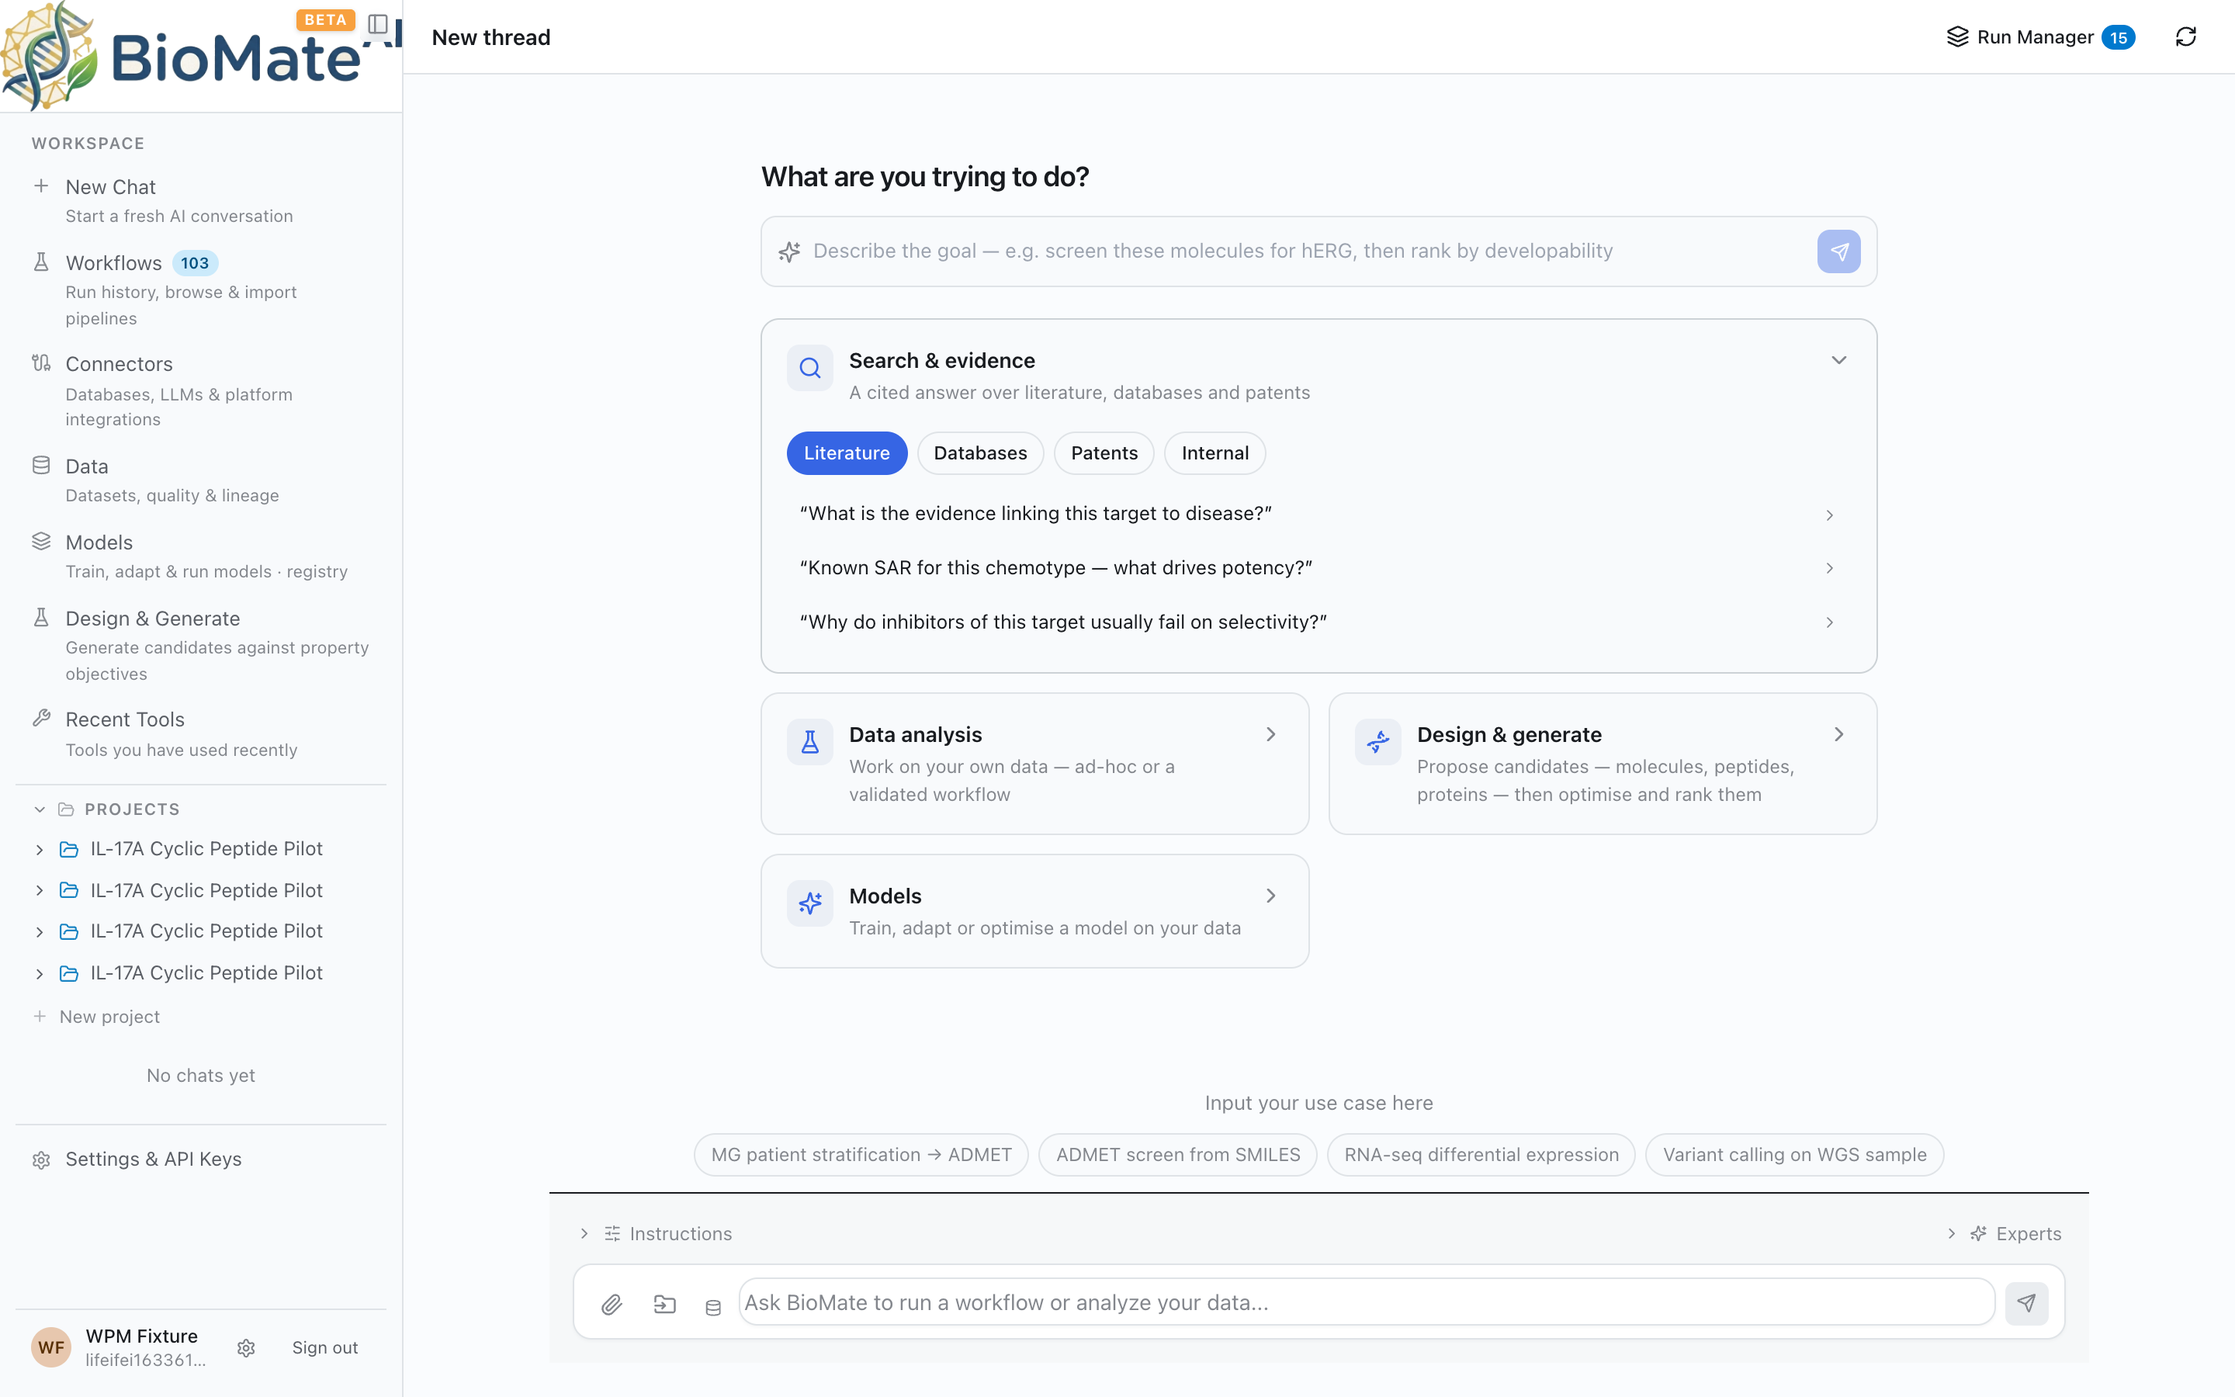
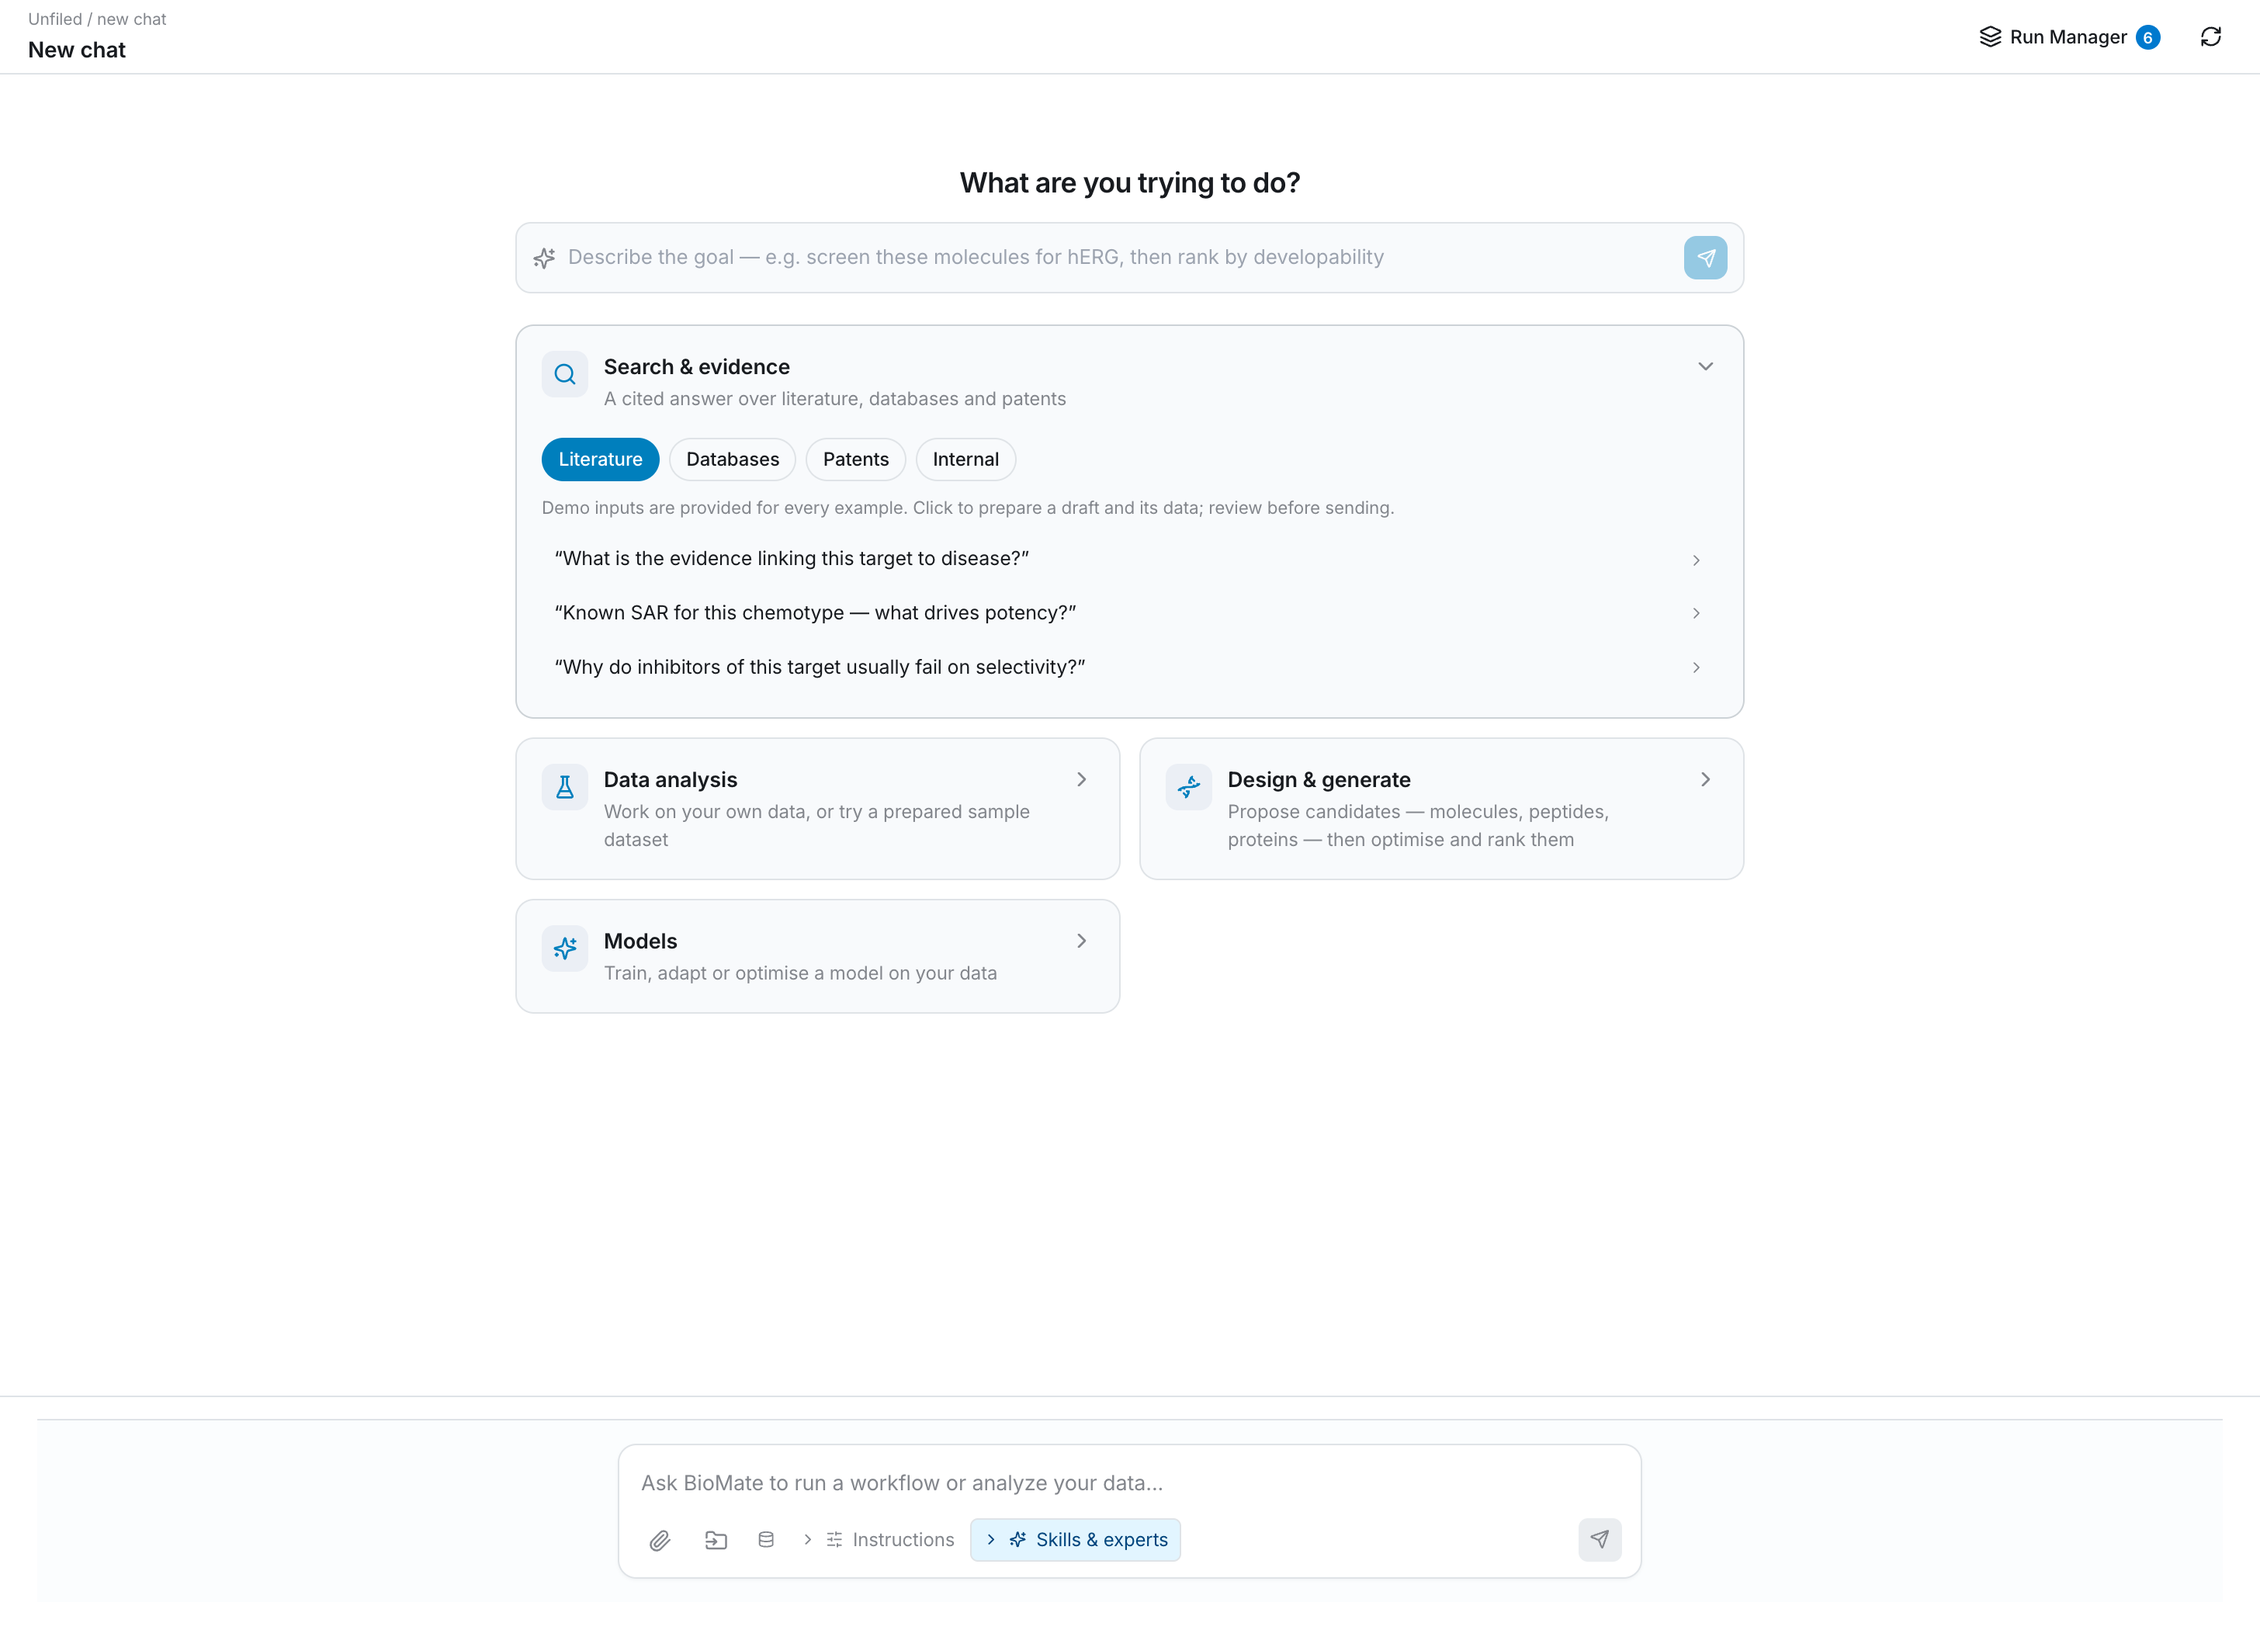
fix(manual-screenshots): crop content column (drop polluted sidebar) + drive to clean demo state
Committee bucket-B capture-quality fixes for the user-manual screenshots.
Harness-only (no app/product source, no fixture deletion, no sync).

Root cause: the old crop used page.locator("main"), but these routes render
through PlatformLayout, which has NO <main> (only AuthenticatedPageLayout/
PublicPageLayout do). The locator matched nothing and silently fell back to a
full-page shot, so every cold-start/data-hub figure kept the fixture-polluted
left sidebar (many E2E/duplicate projects, orange Watch pills).

Fix: element-crop the PlatformLayout content column — the flex-1 div that is the
sibling right after [data-testid="platform-sidebar"] — which excludes the sidebar
and trims dead space. Viewport widened to 1680 for the cropped shots so the
content column alone is >=1440 CSS -> 2912px at 2x DPR (high-res manual figure).

Also drive to the intended state / clean data:
- m2-1: click the "Validated workflows" track (was defaulting to "Ad-hoc compute")
- i05-*: target the clean "MG PBMC - sample data demo" project (clean breadcrumb,
  not "E2E File Tree 1789..."), and open a real demo dataset (contrasts.csv, a
  working table preview) instead of the internal preview_checks.json whose
  preview 400s and put a red "Cannot read file" error in the figure.

Verified: i01-1, i05-1, i05-2, m0-1, m1-1, m2-1 all 2912x2100 (2x), sidebar gone,
states correct.

diff --git a/frontend/e2e/manual-screenshots.e2e.ts b/frontend/e2e/manual-screenshots.e2e.ts
@@ -41,12 +41,23 @@ test("capture data-independent manual surfaces", async ({ page }) => {
   const results: string[] = [];
   for (const shot of SHOTS) {
     try {
-      await page.setViewportSize({ width: 1440, height: 900 });
+      // i01 cold-start is element-cropped to the content column (see below), which
+      // needs a wider viewport so the column alone (viewport − 224px sidebar) is
+      // ≥1440 CSS → ≥2880px at 2× DPR. Other (full-page) shots stay at 1440.
+      const wide = shot.name.startsWith("i01-");
+      await page.setViewportSize(wide ? { width: 1680, height: 1050 } : { width: 1440, height: 900 });
       await page.goto(BASE_URL + shot.route, { waitUntil: "domcontentloaded", timeout: 45_000 });
       // Production build defers resources; give the app a moment to render.
       await page.waitForTimeout(4500);
       // Viewport (above-the-fold) — readable for a manual, unlike a fullPage strip.
-      await page.screenshot({ path: path.join(ASSETS, shot.name) });
+      // i01 cold-start: crop the PlatformLayout content column (the flex-1 div that
+      // is the sibling right after the expanded sidebar) to drop the fixture-
+      // polluted sidebar (many E2E/duplicate projects) + dead space (committee
+      // bucket B). This route has NO <main> (the old locator("main") crop fell back
+      // to full page and kept the sidebar). Falls back to page if not found.
+      const content = page.locator('[data-testid="platform-sidebar"] + div');
+      const tgt = wide && (await content.count().catch(() => 0)) > 0 ? content.first() : page;
+      await tgt.screenshot({ path: path.join(ASSETS, shot.name) });
       results.push(`OK   ${shot.name}  (${shot.route})`);
     } catch (e: any) {
       results.push(`FAIL ${shot.name}  (${shot.route}) — ${e?.message?.split("\n")[0] ?? e}`);
@@ -65,22 +76,39 @@ test("capture data-hub drill-in (I.5)", async ({ page }) => {
   test.setTimeout(120_000);
   await loginAsFixture(page);
   const log: string[] = [];
+  // Crop the PlatformLayout content column (the flex-1 div that is the sibling
+  // right after the expanded sidebar) to drop the fixture-polluted sidebar + dead
+  // space (committee bucket B). This route has NO <main>, so the old
+  // locator("main") crop fell back to full page and kept the sidebar. Falls back
+  // to page if the content column isn't found.
   const shot = async (name: string) => {
-    await page.screenshot({ path: path.join(ASSETS, name) });
+    const content = page.locator('[data-testid="platform-sidebar"] + div');
+    const target = (await content.count().catch(() => 0)) > 0 ? content.first() : page;
+    await target.screenshot({ path: path.join(ASSETS, name) });
     log.push(`OK   ${name}`);
   };
   try {
-    await page.setViewportSize({ width: 1440, height: 900 });
+    // Wide so the content column alone is ≥2880px at 2× DPR (high-res requirement).
+    await page.setViewportSize({ width: 1680, height: 1050 });
     await page.goto(BASE_URL + "/files", { waitUntil: "domcontentloaded", timeout: 45_000 });
     await page.waitForTimeout(4000);
-    // Prefer a project that clearly has files; fall back to the first card.
-    const preferred = page.getByText(/E2E File Tree/i).first();
+    // Target the CLEAN reader-facing demo project by name (committee bucket B:
+    // avoid the "E2E File Tree 1789…" fixture name in the breadcrumb). Falls back
+    // to the old E2E project, then the first card.
+    const clean = page.getByText("MG PBMC — sample data demo").first();
+    const preferred = (await clean.count()) > 0 ? clean : page.getByText(/E2E File Tree/i).first();
     const target = (await preferred.count()) > 0 ? preferred : page.locator('[data-testid^="project-card"], .cursor-pointer').first();
     await target.click({ timeout: 10_000 });
     await page.waitForTimeout(4000);
     await shot("i05-1-file-tree.png"); // file tree for the chosen project
     // Open a file by its NAME (clicking the row's dot doesn't select) → dataset object.
-    const fileName = page.getByText(/\.(fastq|fq|csv|tsv|txt|vcf|bam|h5ad|pdb|json)$/i).first();
+    // Prefer a REAL demo dataset (the counts matrix / a CSV) so the figure shows a
+    // working table preview — not the internal preview_checks.json, whose preview
+    // 400s and would put a red "Cannot read file" error in the manual (committee
+    // bucket B: wrong content captured). Falls back to any previewable file.
+    const demoData = page.getByText(/counts_matrix|sample_metadata|contrasts/i).first();
+    const fileName = (await demoData.count()) > 0 ? demoData
+      : page.getByText(/\.(fastq|fq|csv|tsv|txt|vcf|bam|h5ad|pdb|json)$/i).first();
     if ((await fileName.count()) > 0) {
       await fileName.click({ timeout: 8_000 });
       await page.waitForTimeout(3500);

diff --git a/frontend/e2e/tutorial-capture-20261002.e2e.ts b/frontend/e2e/tutorial-capture-20261002.e2e.ts
@@ -75,8 +75,23 @@ test("capture cold-start modules (M1/M2/T0)", async ({ page }) => {
   test.setTimeout(150_000);
   await loginAsFixture(page);
   const log: string[] = [];
-  const shot = async (name: string) => { await page.screenshot({ path: path.join(ASSETS, name) }); log.push("OK   " + name); };
+  // Element-crop the PlatformLayout content column (the flex-1 div that is the
+  // sibling right after the expanded sidebar) so the left sidebar — polluted on
+  // the fixture with many E2E/duplicate projects (committee bucket B) — is dropped
+  // along with full-page dead space. NOTE: the app has NO <main> on this route
+  // (PlatformLayout, not AuthenticatedPageLayout), so the old locator("main")
+  // crop silently fell back to full page and kept the sidebar. Falls back to page.
+  const shot = async (name: string) => {
+    const content = page.locator('[data-testid="platform-sidebar"] + div');
+    const target = (await content.count().catch(() => 0)) > 0 ? content.first() : page;
+    await target.screenshot({ path: path.join(ASSETS, name) });
+    log.push("OK   " + name);
+  };
   try {
+    // Widen so the content column alone (viewport − 224px sidebar) is ≥1440 CSS →
+    // ≥2880px at 2× DPR (high-res manual-figure requirement). DPR stays 2 (set at
+    // context creation via test.use); setViewportSize only changes width/height.
+    await page.setViewportSize({ width: 1680, height: 1050 });
     await page.goto(BASE_URL + "/", { waitUntil: "domcontentloaded", timeout: 45_000 });
     await settle(page);
     await shot("m0-1-intent-bar.png"); // intent bar + four module cards (cold start)
@@ -92,6 +107,12 @@ test("capture cold-start modules (M1/M2/T0)", async ({ page }) => {
       const expand = card.getByTestId("cold-module-expand");
       try { if ((await expand.count()) > 0) await expand.first().click({ timeout: 6000 }); else await card.click({ timeout: 6000 }); } catch { /* best effort */ }
       await settle(page, 2500);
+      // M2 (Data analysis) must show the "Validated workflows" track (domain chips +
+      // workflow shapes), not the default "Ad-hoc compute" tab (committee bucket B).
+      if (name === "m2-1-data-analysis-module.png") {
+        const vw = card.getByTestId("cold-track-validated-workflows");
+        try { if ((await vw.count()) > 0) { await vw.first().click({ timeout: 6000 }); await settle(page, 1800); } } catch { /* best effort */ }
+      }
       await shot(name);
     }
   } catch (e: any) { log.push("FAIL cold-start — " + (e?.message?.split("\n")[0] ?? e)); }
